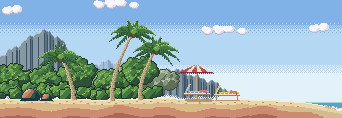
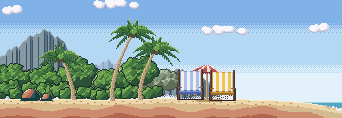
Summer: front-facing beach chairs; Buddy sits instead of lying
Claude-Session: https://claude.ai/code/session_01QXRFGGwh6ntFozGXtHod51

Changed region(s): [[0.4971, 0.5339, 0.7018, 0.8644]]

diff --git a/prototype/summer/index.src.html b/prototype/summer/index.src.html
@@ -1,4 +1,4 @@
 <!doctype html><html lang="zh-CN"><meta charset="utf-8"><meta name="viewport" content="width=device-width,initial-scale=1"><title>夏 · 海湾 · 地图漫步</title>
 <style>
 *{box-sizing:border-box}body{margin:0;background:#eee8dd;color:#3c3442;font:15px/1.6 system-ui,"Microsoft YaHei",sans-serif}main{max-width:1080px;margin:30px auto;padding:0 18px}h1{font-size:24px;margin:0 0 5px}p{margin:4px 0 16px;color:#6c626c}nav,.controls{display:flex;flex-wrap:wrap;gap:10px;margin:14px 0}button{font:inherit;font-weight:650;color:inherit;background:#fffaf0;border:2px solid #6f626e;padding:7px 14px;cursor:pointer;box-shadow:2px 2px #b7a7a1;clip-path:polygon(4px 0,calc(100% - 4px) 0,calc(100% - 4px) 2px,100% 2px,100% calc(100% - 2px),calc(100% - 4px) calc(100% - 2px),calc(100% - 4px) 100%,4px 100%,4px calc(100% - 2px),0 calc(100% - 2px),0 2px,4px 2px)}button:hover,button[aria-current=true]{background:#dbe9cf}button:focus-visible{outline:3px solid #b47545;outline-offset:3px}button:disabled{opacity:.45;cursor:default}button[hidden]{display:none}.stage{background:#bcd8ea;border:3px solid #6f626e;box-shadow:4px 4px #b7a7a1;position:relative;overflow:hidden}canvas{display:block;width:100%;height:auto;image-rendering:pixelated;cursor:crosshair;touch-action:none}canvas:focus-visible{outline:3px solid #b47545;outline-offset:-3px}#status{margin-left:auto;align-self:center;font-weight:650}small{color:#7a6e78}#error{color:#a33a3a}
-#say{position:absolute;left:50%;top:10px;transform:translateX(-50%);max-width:86%;background:#fffaf0;border:2px solid #6f626e;box-shadow:2px 2px #b7a7a1;padding:4px 12px;font-weight:600;font-size:14px;pointer-events:none}#say[hidden]{display:none}</style><main><h1>夏 · 海湾 · 地图漫步</h1><p>点击地面行走（或 ← → / A D）。先到更衣室点帘子换泳装：泳衣（男生女生款式不同）戴浮潜面罩，能潜一小会儿；潜水服背气瓶，能下到深海沟。走进海里会浮在水面，点水下就潜下去（↑ ↓ / W S 也行），点水面或岸上就浮上来。点躺椅可以晒太阳，点旅舍的门可以进屋；海里发光的小星星和鱼、海龟都能点。</p><nav aria-label="地图区域" id="maps"></nav><div class="stage"><p id="say" role="status" hidden></p><canvas id="scene" width="342" height="118" tabindex="0" aria-label="夏季海湾地图，点击行走和潜水"></canvas></div><div class="controls"><button id="gender">换成男生</button><button id="exit" hidden>回到屋外</button><button id="pause" aria-pressed="false">暂停</button><span id="status" role="status">正在准备地图…</span></div><small>夏季地图玩法预览，尚未接入正式游戏（不存档）。</small><p id="error" role="alert" hidden></p></main><script>/*__SCRIPT__*/</script></html>
+#say{position:absolute;left:50%;top:10px;transform:translateX(-50%);max-width:86%;background:#fffaf0;border:2px solid #6f626e;box-shadow:2px 2px #b7a7a1;padding:4px 12px;font-weight:600;font-size:14px;pointer-events:none}#say[hidden]{display:none}</style><main><h1>夏 · 海湾 · 地图漫步</h1><p>点击地面行走（或 ← → / A D）。先到更衣室点帘子换泳装：泳衣（男生女生款式不同）戴浮潜面罩，能潜一小会儿；潜水服背气瓶，能下到深海沟。走进海里会浮在水面，点水下就潜下去（↑ ↓ / W S 也行），点水面或岸上就浮上来。点沙滩椅可以坐下吹海风，点旅舍的门可以进屋；海里发光的小星星和鱼、海龟都能点。</p><nav aria-label="地图区域" id="maps"></nav><div class="stage"><p id="say" role="status" hidden></p><canvas id="scene" width="342" height="118" tabindex="0" aria-label="夏季海湾地图，点击行走和潜水"></canvas></div><div class="controls"><button id="gender">换成男生</button><button id="exit" hidden>回到屋外</button><button id="pause" aria-pressed="false">暂停</button><span id="status" role="status">正在准备地图…</span></div><small>夏季地图玩法预览，尚未接入正式游戏（不存档）。</small><p id="error" role="alert" hidden></p></main><script>/*__SCRIPT__*/</script></html>

diff --git a/prototype/summer/viewer.js b/prototype/summer/viewer.js
@@ -99,7 +99,7 @@ function draw(){const vh=canvas.height;ctx.fillStyle='#eee8dd';ctx.fillRect(0,0,
  for(const c of DATA.life){const ph=t*c.v/Math.max(1,c.r),x=c.x+Math.sin(ph)*c.r+(c.ox||0),y=c.y+Math.sin(t*.7+c.x)*2+(c.oy||0),left=Math.cos(ph)<0,im=img(c.f[Math.floor(t*3+c.x)%2]);
   c.cx=x+im.width/2;c.cy=y+im.height/2;c.w=im.width;c.h=im.height;
   ctx.save();ctx.translate(Math.round(x),Math.round(y));if(left){ctx.scale(-1,1);ctx.drawImage(im,-im.width,0);}else ctx.drawImage(im,0,0);ctx.restore();}
- if(state.lying!==null){const [lx,ly]=DATA.loungers[state.lying];hero(lx,ly);}else hero(state.x,state.y);
+ if(state.lying!==null){const [lx,ly]=DATA.chairs[state.lying];state.facing=1;hero(lx,ly);}else hero(state.x,state.y);
  if(floating()){ctx.fillStyle='rgba(120,190,215,.5)';ctx.fillRect(Math.round(state.x)-12,WL+1,24,Math.round(state.y)-WL);
   ctx.fillStyle='#f4fbff';const r=4+Math.round((t*6)%6);ctx.fillRect(Math.round(state.x)-r-4,WL,3,1);ctx.fillRect(Math.round(state.x)+r+2,WL,3,1);}   // ripples
  for(const p of parts){ctx.fillStyle=p.c;ctx.globalAlpha=clamp(p.life*1.5,0,1);ctx.fillRect(Math.round(p.x),Math.round(p.y),1,1);}ctx.globalAlpha=1;
@@ -108,12 +108,12 @@ function draw(){const vh=canvas.height;ctx.fillStyle='#eee8dd';ctx.fillRect(0,0,
   ctx.fillStyle='rgba(30,50,70,.55)';ctx.fillRect(6,6,46,7);ctx.fillStyle=f<.25?'#e86b5a':'#bfe9f5';ctx.fillRect(8,8,Math.round(42*f),3);}}
 // ------------------------------------------------------------- input
 function pick(x,y){
- if(state.lying!==null){state.lying=null;toast('起来活动活动～',1.5);}
+ if(state.lying!==null){state.lying=null;toast('站起来活动活动～',1.5);}
  const g=gr(x);
  if(Math.abs(x-DATA.lodgeDoor)<12&&y>g-36&&y<g+2)return goTo(DATA.lodgeDoor,'walk',0,()=>{state.inside=true;state.x=150;toast('旅舍里：卧室、客厅、厨房和浴室。',2.5);});
  for(const [k,dx]of Object.entries(DATA.cabana))if(Math.abs(x-dx)<10&&y>g-34&&y<g+2)return goTo(dx,'walk',0,()=>{state.changing=1.1;const next=state.suit===k?'clothes':k;
   setTimeout(()=>{state.suit=next;state.breath=BREATH[next];toast(next==='clothes'?'换回了便装。':next==='swim'?'换上了泳衣！戴着浮潜面罩，能潜一小会儿。':'换上了潜水服！背着气瓶，可以下到深海沟。');},reduced?0:1000);});
- for(const [i,[lx,ly]]of DATA.loungers.entries())if(Math.abs(x-lx)<14&&y>ly-12&&y<ly+8)return goTo(lx,'walk',0,()=>{state.lying=i;toast('躺在躺椅上晒太阳，海风吹得好舒服～');});
+ for(const [i,[lx,ly]]of DATA.chairs.entries())if(Math.abs(x-lx)<14&&y>ly-32&&y<ly+3)return goTo(lx,'walk',0,()=>{state.lying=i;toast('坐在沙滩椅上吹海风，好惬意～');});
  for(const c of DATA.life)if(c.cx&&Math.abs(x-c.cx)<c.w/2+5&&Math.abs(y-c.cy)<c.h/2+5){
   if(state.suit==='clothes')return toast('先去更衣室换上泳装，才能游过去看看。');
   return goTo(c.cx,'dive',c.cy,()=>{if(Math.hypot(c.cx-state.x,c.cy-state.y+10)<40)discover('life:'+c.k,DATA.lifeText[c.k]);else toast('它游走了……');});}

diff --git a/tools/make_summer_preview.py b/tools/make_summer_preview.py
@@ -113,8 +113,20 @@ BASE_LEGS = """
 CELL = 28
 
 
+def sitting(kind, gender):
+    """Seated, front view: the doll's own sit pose in clothes; in swimwear the
+    upper body drops 2px and only the shins and feet show below."""
+    if kind == 'clothes':
+        return (doll.GIRL if gender == 'f' else doll.BOY).render(pose='sit').to_image()
+    st = outfit(kind, gender)
+    out = Image.new('RGBA', (20, 28))
+    out.paste(st.crop((0, 0, 20, 22)), (0, 2))
+    out.paste(st.crop((0, 24, 20, 28)), (0, 24))
+    return out
+
+
 def hero_sheet(kind, gender='f'):
-    """Cells of 28x28: 0-3 walk, 4-5 float (arm stroke), 6-7 dive (kick), 8 lie."""
+    """Cells of 28x28: 0-3 walk, 4-5 float (arm stroke), 6-7 dive (kick), 8 sit."""
     sheet = Image.new('RGBA', (CELL * 9, CELL))
     walk = []
     for i in range(4):
@@ -131,7 +143,7 @@ def hero_sheet(kind, gender='f'):
         sheet.paste(outfit(kind, gender, bob=f, wave=f) if kind != 'clothes' else walk[0], ((4 + f) * CELL + 4, 0))
         rot = walk[1 + 2 * f].rotate(-90, expand=True)                 # head forward (right), legs kicking
         sheet.paste(rot, ((6 + f) * CELL, 8))
-    sheet.paste(walk[0].rotate(90, expand=True), (8 * CELL, 8))          # lying, head on the backrest (left)
+    sheet.paste(sitting(kind, gender), (8 * CELL + 4, 0))              # sitting in a beach chair, facing us
     return sheet
 
 
@@ -195,7 +207,7 @@ def main():
         'clouds': [uri(BE.cloud(i)) for i in range(3)], 'life': life(),
         'heroes': {g: {k: uri(hero_sheet(k, g)) for k in ('clothes', 'swim', 'wetsuit')} for g in ('f', 'm')},
         'solid': uri(solid_mask()),
-        'loungers': [[B.PRE + 184 + 13, B.GROUND[B.PRE + 190] - 7], [B.PRE + 214 + 13, B.GROUND[B.PRE + 218] - 7]],
+        'chairs': [[cx, B.GROUND[cx] + 1] for cx, _ in B.CHAIRS],
         'hotspots': [dict(h, text=HOTSPOT_TEXT[h['id']]) for h in B.HOTSPOTS],
         'lifeText': LIFE_TEXT, 'seal': [uri(SS.seal(0)), uri(SS.seal(1))], 'sealAt': [B.STACK[0] + 4, B.WL - 4],
         'seaEnd': B.STACK[0] - 6,

diff --git a/art/src/concept/_bay_parts.py b/art/src/concept/_bay_parts.py
@@ -306,6 +306,37 @@ def cabana3d(s, x0, x1, base, doors):
         s.hline(x1 + dx + 1, x1 + dx + 1 + 10 - i, base - 1 - i // 4, P.sand[2])
 
 
+# ------------------------------------------------------------- beach chair
+
+def beach_chair(s, cx, base, C):
+    """A wooden folding beach chair seen from the front (owner: turn the
+    lounger round, Buddy sits in it): tall back posts, a striped canvas back,
+    a sling seat, armrests, crossed front legs. The back is taller and wider
+    than Buddy, so it frames her when she sits."""
+    Wd = P.walnut
+    top, seat = base - 31, base - 9
+    for px in (cx - 12, cx + 11):                                   # back posts
+        s.vline(px, top, base - 1, Wd[2]).vline(px + 1, top, base - 1, Wd[1])
+        s.set(px, top, Wd[3])
+    for y in range(top + 2, seat):                                  # striped canvas back
+        for x in range(cx - 10, cx + 11):
+            col = C[3] if ((x - cx) // 3) % 2 == 0 else P.porcelain[3]
+            if x == cx - 10 or y == top + 2:
+                col = C[2] if col == C[3] else P.porcelain[2]
+            if x == cx + 10 or y == seat - 1:
+                col = C[1] if col == C[3] else P.porcelain[1]
+            s.set(x, y, col)
+    s.rect(cx - 11, seat, 23, 3, C[1]).hline(cx - 11, cx + 11, seat, C[2])   # sling seat
+    for sgn in (-1, 1):                                             # armrests
+        ax = cx + sgn * 13
+        s.hline(min(ax, ax - sgn * 4), max(ax, ax - sgn * 4), seat - 4, Wd[3])
+        s.vline(ax, seat - 4, base - 1, Wd[1])
+    for k in range(8):                                              # crossed front legs
+        s.set(cx - 9 + k * 2, seat + 3 + k // 2 if seat + 3 + k // 2 < base else base - 1, Wd[2])
+        s.set(cx + 9 - k * 2, seat + 3 + k // 2 if seat + 3 + k // 2 < base else base - 1, Wd[1])
+    s.hline(cx - 12, cx + 12, base - 1, Wd[0])
+
+
 # ------------------------------------------------------------- sea stack
 
 def sea_stack(s, x0, x1, wl, floor, seed):

diff --git a/art/src/concept/summer_bay.py b/art/src/concept/summer_bay.py
@@ -317,6 +317,9 @@ def cabana_screen(t):
     SI.hibiscus(t, 30, b, 9, 9, P.blossom)
 
 
+CHAIRS = [(PRE + 190, P.hydrangea), (PRE + 222, P.mustard)]
+
+
 def land(s, frame=0):
     BP.mountains(s, 0, PRE + 236, WL - 9, [(170, 60, 74), (440, 80, 56), (PRE + 40, 60, 66), (PRE + 180, 40, 30)], 9)
     gy = lambda x: GROUND[max(0, min(GW - 1, x))]
@@ -334,9 +337,9 @@ def land(s, frame=0):
     SI.palm2(s, PRE + 112, GROUND[PRE + 112], 70, lean=1, frame=frame, seed=2)
     SI.palm2(s, PRE + 140, GROUND[PRE + 140], 52, lean=1, frame=frame, seed=5)
     SI.palm2(s, PRE + 74, GROUND[PRE + 74], 44, lean=-1, frame=frame, seed=8)
-    SI.umbrella(s, PRE + 196, GROUND[PRE + 196], R=P.coral)
-    SI.lounger(s, PRE + 184, GROUND[PRE + 190])
-    SI.lounger(s, PRE + 214, GROUND[PRE + 218], C=P.mustard)
+    SI.umbrella(s, PRE + 206, GROUND[PRE + 206], R=P.coral)
+    for cx, C in CHAIRS:                                             # front-facing beach chairs (owner)
+        BP.beach_chair(s, cx, GROUND[cx] + 1, C)
     footprints(s, 470, PRE + 300)
 
 

diff --git a/docs/AGENT_LOG.md b/docs/AGENT_LOG.md
@@ -7,6 +7,9 @@ owner decisions made, what was not tested. Keep older entries; trim beyond ~40 e
 ---
 
 ## 2026-10-31 · Claude
+- Summer: loungers -> front-facing beach chairs; Buddy sits in them (all outfits). `/summer/` rebuilt.
+
+## 2026-10-31 · Claude
 - Summer: sea enlarged (meadow + deep trench, 2736x560), swimwear redrawn (girl one-piece /
   boy rash guard + board shorts / wetsuit), 比基尼 renamed 泳衣, boy/girl toggle in `/summer/`.
   Checked in Chromium: change as boy, dive to the trench bottom; no errors.

diff --git a/docs/SUMMER_SEA.md b/docs/SUMMER_SEA.md
@@ -192,3 +192,5 @@ PYTHONPATH=tools python3 -m pixelkit build art/src/concept/summer_isle.py art/sr
   hibiscus dots and a frilled skirt; boy = rash guard + board shorts; wetsuit with a chest
   panel and booties. Suits are clothes / swim (泳衣) / wetsuit; the page has 换成男生/女生.
   The cabana's 泳衣 door sign is a swim ring now.
+- Owner: no lying on loungers. The loungers became front-facing beach chairs (`BP.beach_chair`,
+  `CHAIRS`); clicking one seats Buddy in it, facing us (sheet cell 8 = sit).
